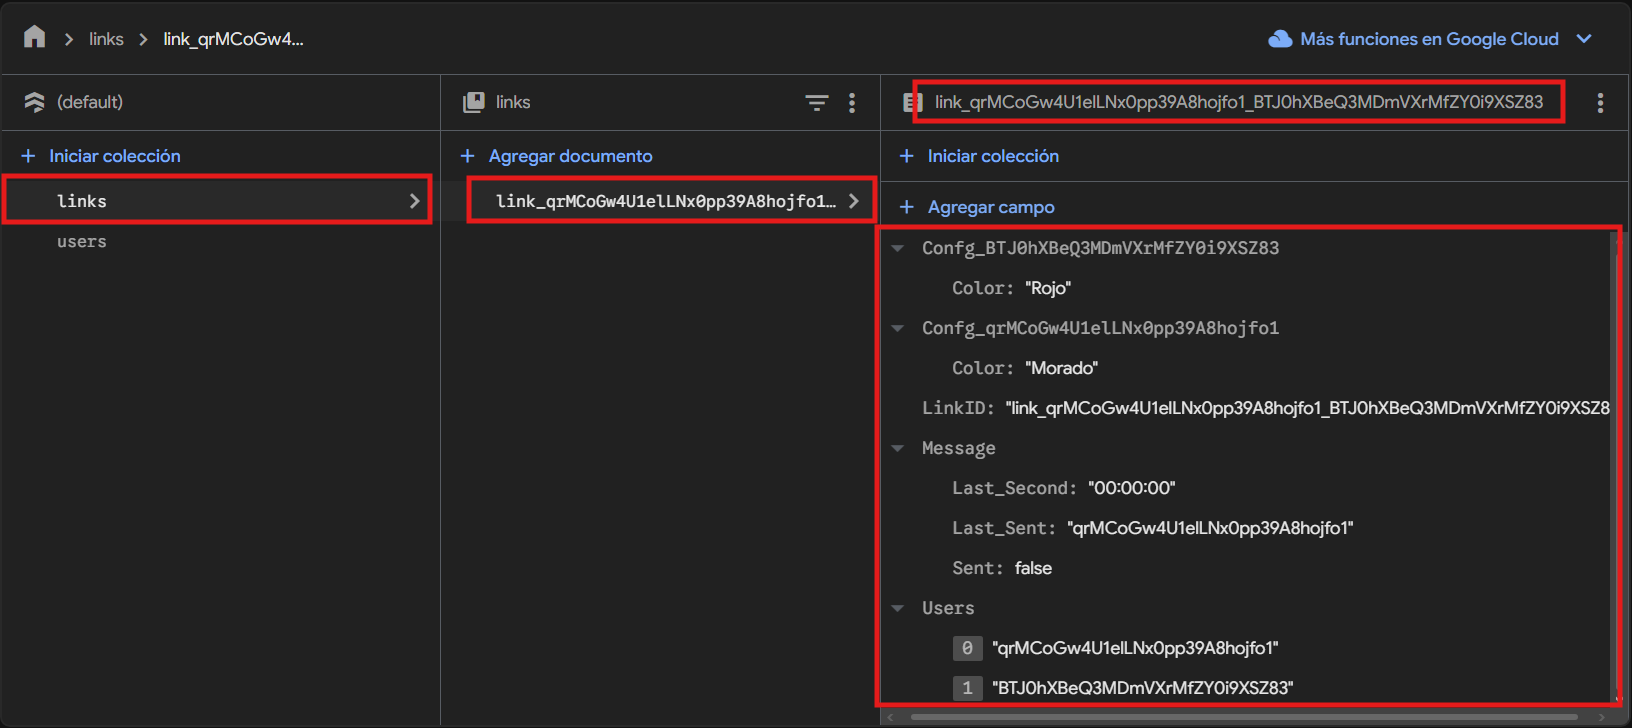
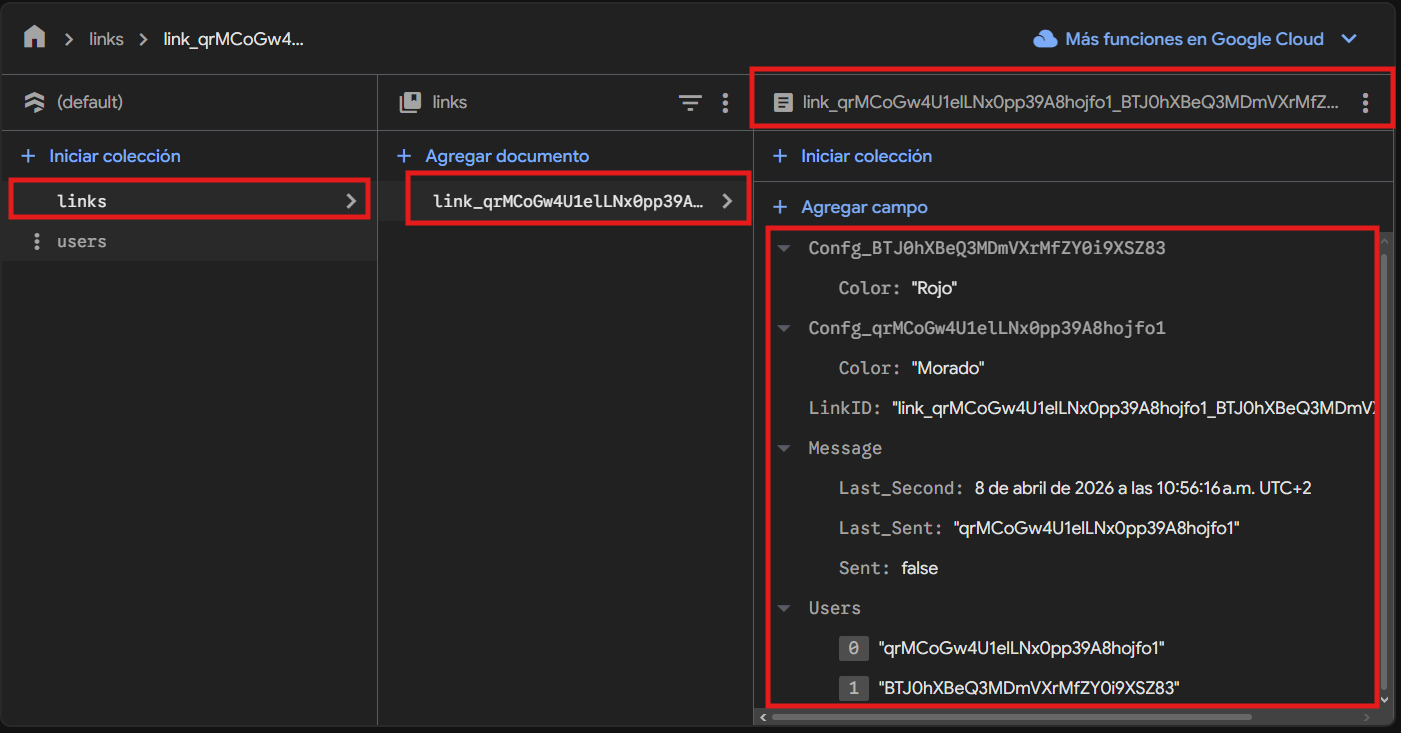
Añadido el archvio 'Funcionalidad.md'

diff --git a/Documentacion/BBDD.md b/Documentacion/BBDD.md
@@ -1,9 +1,31 @@
 # BBDD
+- [BBDD](#bbdd)
+  - [¿Qué usamos y porqué?](#qué-usamos-y-porqué)
+  - [Dilemas y decisiones iniciales](#dilemas-y-decisiones-iniciales)
+    - [Users](#users)
+      - [**Nombre del archivo**](#nombre-del-archivo)
+      - [**UID**](#uid)
+      - [**Token\_FCM**](#token_fcm)
+      - [**Profile\_Pic**](#profile_pic)
+      - [**Name**](#name)
+      - [**Email**](#email)
+      - [**BandX**](#bandx)
+        - [**Band\_Name**](#band_name)
+        - [**Destiny\_Link**](#destiny_link)
+        - [**MAC**](#mac)
+    - [Links](#links)
+      - [**Nombre de archivo**](#nombre-de-archivo)
+      - [**Users**](#users-1)
+      - [**Message**](#message)
+        - [**Last\_Sent** y **Last\_Second**](#last_sent-y-last_second)
+        - [**Sent**](#sent)
+      - [**ConfgN**](#confgn)
+
 ## ¿Qué usamos y porqué?
 Tras analizar las opciones y pensar en crear una api para llevar el servidor, acabamos decidiendo que lo mejor era usar **firebase** como base de datos, ya que gracias a su alta compatibilidad con **dart** (el lenguaje que usaremos para la app), podremos crear toda la lógica con **solo la base de datos y los procesos de la app**.
 
 ## Dilemas y decisiones iniciales
-Al empezar un proyecto de este estilo hay que tomar decisiones con la base de datos, tanto si será **SQL** o **NoSQL**, como la **estructura de los documentos** y los distintos campos que podamos necesitar. La conclusión a la que llegamos fue a la de hacer una base **NoSQL**, ya que hay datos que no siempre se van a compartir y va a ser mucho más ecalable. Uno de estos campos por ejemplo, será el de **"band"** refiriendose a cada pulsera que tenga el usuario, que puede ir desde 0 hasta una cantidad infinita (siempre y cuando las tenga de manera física, obviamente), así que **no tendría sentido** crear infinita cantidad de posibles pulseras, ni restringir a usuarios a tener un número limitado de ellas, **suponiendo esto un problema de libertad al usuario o de espacio en la base de datos**. Una vez decidido esto (y debido a la inexperiencia en este tipo de entornos) tuvimos que pensar en la lógica de los **ficheros** y las **colecciones**, llegando a la conclusión de usar **dos colecciones principales:**
+Al empezar un proyecto de este estilo hay que tomar decisiones con la base de datos, tanto si será **SQL** o **NoSQL**, como la **estructura de los documentos** y los distintos campos que podamos necesitar. La conclusión a la que llegamos fue a la de hacer una base **NoSQL**, ya que hay datos que no siempre se van a compartir y va a ser mucho más escalable. Uno de estos campos por ejemplo, será el de **"band"** refiriendose a cada pulsera que tenga el usuario, que puede ir desde 0 hasta una cantidad infinita (siempre y cuando las tenga de manera física, obviamente), así que **no tendría sentido** crear infinita cantidad de posibles pulseras, ni restringir a usuarios a tener un número limitado de ellas, **suponiendo esto un problema de libertad al usuario o de espacio en la base de datos**. Una vez decidido esto (y debido a la inexperiencia en este tipo de entornos) tuvimos que pensar en la lógica de los **ficheros** y las **colecciones**, llegando a la conclusión de usar **dos colecciones principales:**
 ### Users
 Esta colección estará completamente dedicada a los **datos de usuario**, tales como el **nombre** o la **foto de perfil**, así que vamos a ver la **estructura** y comentar cada **campo**:
 ![img](./imgs/bbdd-users-colection.png)
@@ -18,7 +40,7 @@ Será la dirección en donde se aloja la foto de perfil del usuario, esto se act
 #### **Name**
 Simplemente el nombre del usuario.
 #### **Email**
-El email del usuario para poder mandar notificiaciones via email, pues los datos de usuario se almacenan en otra parte de firebase.
+El email del usuario para poder mandar notificaciones via email, pues los datos de usuario se almacenan en otra parte de firebase.
 #### **BandX**
 Aquí es donde viene parte de la importancia de que la BBDD sea **NoSQL**, pues este campo será creado proceduralmente según vaya añadiendo más pulseras. Este campo es de tipo **map**, que es lo que nos permitirá crear conjuntos de campos, para no tener que crear **MAC1**, **MAC2**, **MAC3**..., sino que será directamente **Band1.MAC**, permitiendo una estandarización y organización mejor por pulsera.
 ##### **Band_Name**
@@ -26,7 +48,7 @@ Esto definirá el nombre que le dará el usuario a la pulsera a la hora de vincu
 ##### **Destiny_Link**
 Esto estará mejor explicado en [este documento](./Funcionalidad.md), pero básicamente delimitará el enlace por defecto al que se enviará el mensaje al pulsar el botón de la pulsera.
 ##### **MAC**
-Simplmente pondrá la dirección MAC de la pulsera, para poder saber que pulsera es en los distintos procesos y demás, este campo se rellenará al vincular la pulsera con la app.
+Simplemente pondrá la dirección MAC de la pulsera, para poder saber que pulsera es en los distintos procesos y demás, este campo se rellenará al vincular la pulsera con la app.
 ### Links
 Esta base de datos es **la que le dará la utilidad que necesitamos**, pues es la que **unirá a los usuarios** y nos permitirá **hacer las consultas para los mensajes**. De momento solo unirá a **dos** usuarios, pero (en futuro próximo), intentaremos poder crear **grupos**, que se basrán en archivos de esta colección para poder mandar mensajes en **"broadcast"** dentro de ellos. Estos archivos se **crearán** al **añadir a alguien como amigo**, y seguirán la siguiente estructura:
 ![img](./imgs/bbdd-links-colection.png)
@@ -37,9 +59,9 @@ Este campo será un **array** con los **UID** de los usuarios del enlace, para q
 #### **Message**
 El núcleo del funcionamiento del mensaje, este **map** será el que analizará la app para poder saber cuando debe recibir una notificación.
 ##### **Last_Sent** y **Last_Second**
-Estos campos contendrán **siempre** (a no ser que haya un fallo en la conexión) la **UID** del último usuario de la pareja en pulsar su botón (además de la última hora en la que lo hizo) para que la app pueda analizar quién de los dos hizo la petición de mensaje y que pueda enviar dos mensajes seguidos (con un segundo de diferencia).
+Estos campos contendrán **siempre** (a no ser que haya un fallo en la conexión) la **UID** del último usuario de la pareja en pulsar su botón (además de la última hora en la que lo hizo con un campo de tipo **timestamp**) para que la app pueda analizar quién de los dos hizo la petición de mensaje y que pueda enviar dos mensajes seguidos (con un segundo de diferencia).
 ##### **Sent**
-Este campo será el que mande la señal de inicio a la app para mandar el mensaje, pues es un **booleano** que cambiará únicamente entre **"true"** y **"false"**, haciendo que cuando este campo sea **"true"** la app analice los dos campos anteriores y actue en base a eso.
+Este campo será el que mande la señal de inicio a la app para mandar el mensaje, pues es un **booleano** que cambiará únicamente entre **"true"** y **"false"**, haciendo que cuando este campo sea **"true"** la app analice los dos campos anteriores y actúe en base a eso.
 #### **ConfgN**
 Creado en base a los **UID**, este campo servirá para las configuraciones de usuario que puede tener en específico cada enlace, como el color con el que quieres recibir tu notificación en este caso.
 

diff --git a/Documentacion/Funcionalidad.md b/Documentacion/Funcionalidad.md
@@ -1,2 +1,38 @@
-## ¿Cómo funciona?
-Bueno, uno de los pros de usar dart y firebase juntos es la posibilidad de crear "streams", siendo estos consultas en constante funcionamiento a los archivos de base de datos que queramos, haciendo que, por ejemplo, el usuario "Test" consulte todos los archivos de conexión de la colección "links" a los que pertenezca en el campo "users", y cuando el campo "message.sent" cambie a enviado, empezará todo el proceso de la app.  
+# Funcionamiento
+- [Funcionamiento](#funcionamiento)
+  - [Autenticación](#autenticación)
+  - [Proceso de mensaje](#proceso-de-mensaje)
+    - [**Envío** **de** **saludo**](#envío-de-saludo)
+      - [**Envío** **desde** **app**](#envío-desde-app)
+      - [**Envío** **desde** **pulsera**](#envío-desde-pulsera)
+    - [**Modificar** **el** **archivo**](#modificar-el-archivo)
+    - [**Recibir** **el** **mensaje**](#recibir-el-mensaje)
+    - [**Analizar** **los** **datos**](#analizar-los-datos)
+    - [**Comprobar** **las** **configuraciones**](#comprobar-las-configuraciones)
+    - [**Saludo**](#saludo)
+
+El funcionamiento central de las pulseras no es nada del otro mundo, ya que no haremos uso de grandes APIs a nivel servidor, gracias a Firebase tendremos el trabajo muy facilitado, pues nos gestionará la BBDD y la autenticación de usuarios.
+
+## Autenticación
+La autenticación de nuestros usuarios será a través de FirebaseAuth, el cuál es un módulo aparte del de la base de datos, así que no tendremos que preocuparnos tanto por la seguridad, pues nos verificaremos contra ello y solo nos devolverá el token de usuario, así no pasarán las contraseñas por la base de datos principal.
+
+## Proceso de mensaje
+El proceso de mensaje es sencillo de entender, pues este depende de un cambio en la base de datos, es decir, al enviar un saludo (entendiendo como saludo el envío del mensaje) la app cambiará los campos incluídos en el **map** de **Message** dentro de los archivos de la colección **links**, y la app receptora verá ese cambio, y analizando los datos que vea, enviará un mensaje a **su pulsera**. Yendo paso a paso:
+![img](./imgs/Hermodr%20lógica.jpg)
+
+### **Envío** **de** **saludo**
+Para poder enviar un saludo llegamos a dos conclusiones, y es que si simplemente dejasemos conectarse via pulseras, no podrías usar nuestra app con más de una persona si solo tienes una pulsera, como podría ser una madre con 3 hijos, o un grupo de amigos, entonces llegamos a la conclusión de que deberías poder enviar mensajes directamente desde la app, así pues, recibirás todas las notificaciones en tu pulsera, independientemente de quién lo mande, pero desde la pulsera solo enviarás a un enlace. Para poder gestionar esto es que existe el campo BandN.DestinyLinkID en todos los usuarios con pulsera, para ver a qué enlace hace referencia.
+#### **Envío** **desde** **app**
+El envío desde app es el más sencillo, desde cada enlace con un amigo podrás darle a un botón de envío, que tendrá como destino el archivo de **link** pertinente,
+#### **Envío** **desde** **pulsera**
+Cuando registres a un nuevo **amigo** tendrás la opción de definirlo como el favorito para tu pulsera (obviamente se puede editar en cualquier momento), esto hará que al pulsar el botón de esta pulsera se consulte en el archivo de usuario, en el que se buscará a qué **map** corresponde la **MAC**, y entonces mirará el campo **BandX.DestinyLinkID**, lo que contendrá el nombre del archivo que corresponda al enlace en cuestión.
+### **Modificar** **el** **archivo**
+Ahora que ya está ubicado el archivo que corresponde a la persona a la que le queremos mandar el **saludo**, editaremos el archivo, concretamente los campos del **map** **Message**, pues necesitaremos cambiar el campo **Message.Sent** a true para iniciar el proceso. Así que antes de eso el emisor pondrá su **UID** en el campo **Message.Last_Sent** para que la **app** sepa quién ha modificado el campo **Message.Sent**, además, utilizaremos el campo **Message.Last_Second** para evitar problemas de **spam**.
+### **Recibir** **el** **mensaje**
+Para recibir el mensaje usaremos la función de **stream** que tiene dart, pues nos permitirá que dart **"esté atento"** al campo **Message.Sent** en todos los archivos en los que su **UID** se ve contemplado en el campo **Users**, esto hará que firebase le avise cuando se cambie, y ahí **empezará** el proceso.
+### **Analizar** **los** **datos**
+En este paso, lo que hará la app al ver que el campo **Message.Sent** está en **True** será comprobar **Message.Last_Sent** y comprobar si el **UID** que sale es el suyo, en caso de serlo, ignorará el cambio, pero si no lo es, entonces seguirá con el proceso de **saludo**.
+### **Comprobar** **las** **configuraciones**
+Por último, antes de enviar el mensaje, comproborá la **ConfgN** correspondiente de su **UID** para saber a qué pulsera mandárselo (con el campo **ConfgN.Band**) o con qué color recibirá el mensaje (con el campo **ConfgN.Color**).
+### **Saludo**
+Ahora sí, se enviará el **saludo** a la pulsera final con la información pertinente, y esta ejecutará el **resultado final**.
